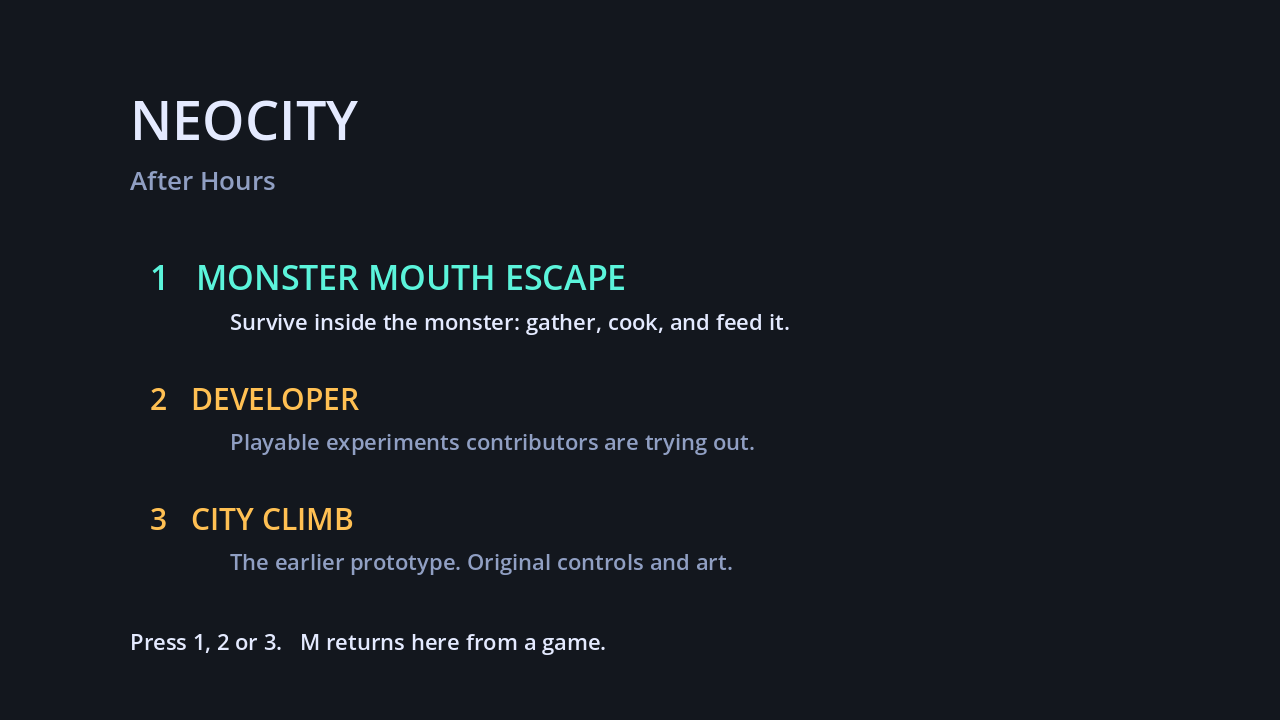
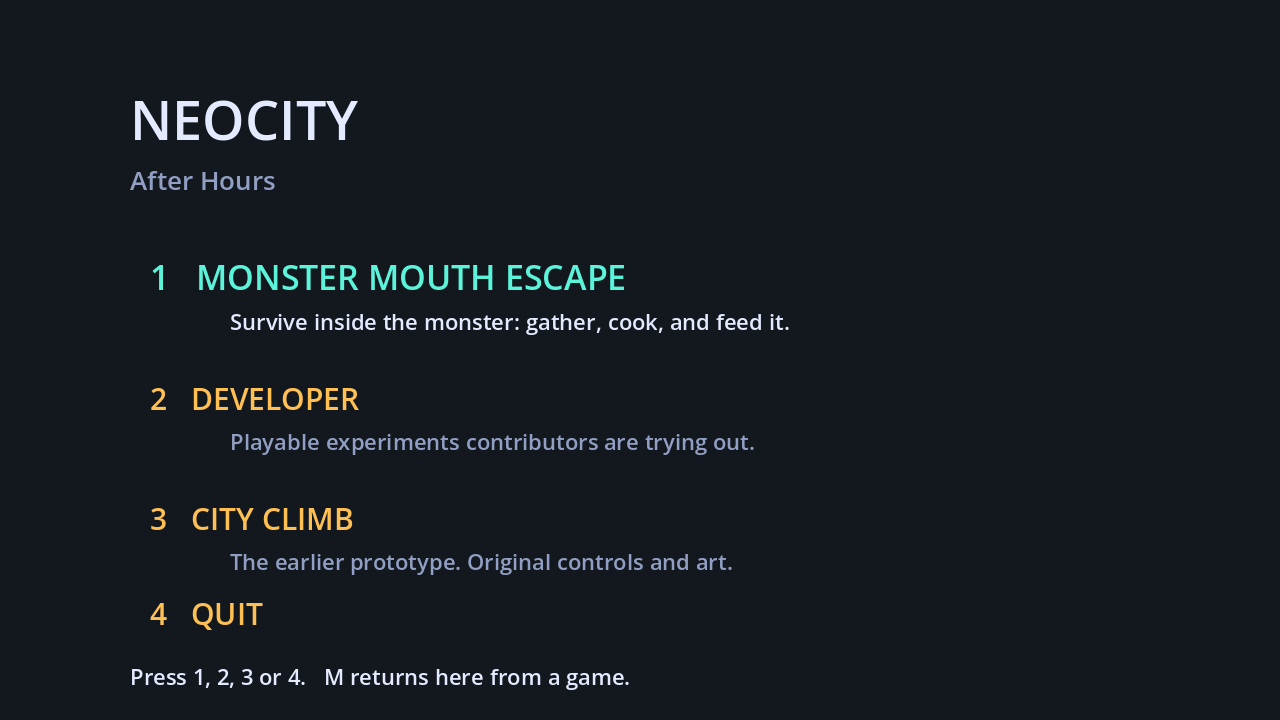
docs: match the README, design doc and frames to the game (#77)

Changed region(s): [[0.0938, 0.825, 0.5, 0.9778]]

diff --git a/docs/design/monster-mouth-escape.md b/docs/design/monster-mouth-escape.md
@@ -24,16 +24,16 @@ The baseline is the [body of parent #21](https://github.com/garamsh/neocity/issu
 ## Scope implemented on the foundation
 
 - [Foundation #23](https://github.com/garamsh/neocity/issues/23) provides state and commands for the two actors, the first day, the base and exploration phases, inventories, 3-slot health, shared remaining time, initial acid, and the run seed. Time expiry, damage return, re-entry, and inventory preservation can be executed.
-- [Exploration #24](https://github.com/garamsh/neocity/issues/24) provides, in pure C++, the two actors' identical detailed movement, collision, running, and stamina, fall returns, and material source access, supply, and shared stock validation. Escape is not implemented. The existing ascent game and pan experiment run unchanged.
+- [Exploration #24](https://github.com/garamsh/neocity/issues/24) provides, in pure C++, the two actors' identical detailed movement, collision, running, and stamina, fall returns, and material source access, supply, and shared stock validation. The existing ascent game and pan experiment run unchanged.
 - The decision that cooking has no time limit is reflected as a boundary where the workshop phase consumes no exploration time.
 - Voluntary return, health exhaustion, and time expiry all recover health to 3 slots on returning to base. Recovery does not reset inventories, the day count, remaining exploration time, or acid.
 - Switching to the workshop phase and stopping the exploration clock when both actors are at base is also a temporary boundary of the current foundation. The decision that cooking has no time limit does not settle the final time rule for every base stay.
 - The caller supplies exploration time. The short budgets, ingredient IDs, and seeds in tests are verification inputs, not product tuning values. The world reacts to acid given as a separate input.
 - [World #25](https://github.com/garamsh/neocity/issues/25) provides, as read-only value snapshots, stable IDs and areas for NPCs, terrain, buildings, passages, and material sources, traversal and supply availability after destruction, passage repair with the matching tool, and the appearance of unexposed buildings, routes, and material sources.
-- The caller supplies world damage and exposure thresholds. Test thresholds and layouts are not final balance or maps. Damage uses cumulative exploration time or an increase in historical peak acid, and an acid drop, a return, or health recovery does not reset the destruction, exposure, or repair history. A repaired passage does not break again at once on the same input and is damaged when added time or a peak acid increase after the repair reaches the threshold again.
+- The caller supplies world damage and exposure thresholds. Test thresholds and layouts are not final balance or maps. Damage uses the run's world time, the exploration time spent today plus a full day for every finished day whether anyone set out, or an increase in historical peak acid, and an acid drop, a return, or health recovery does not reset the destruction, exposure, or repair history. A repaired passage does not break again at once on the same input and is damaged when added time or a peak acid increase after the repair reaches the threshold again.
 - Exploration's four-direction integer grid, 100ms movement unit, one cell walking and two cells running, and one stamina slot spent or recovered per unit are a temporary runtime representation. The caller supplies maximum stamina, the entrance, interaction distance, and stock. Final physics, speed, and balance are not settled. Short frames also consume exploration time immediately and preserve only the movement remainder.
 - Vending machines, NPCs, shops, and bags use the same ingredient collection validation. The two actors cannot consume the same stock twice, and returning or setting out again restores neither stock nor the world. Tools are not disguised as ingredients.
-- Exploration consumes the two actors' time once and updates the world's cumulative time. External acid input applies to the world.
+- Exploration consumes the two actors' time once and passes the run's world time to the world. External acid input applies to the world.
 - [Workshop #26](https://github.com/garamsh/neocity/issues/26) provides, in pure C++, appraisal, cooking, and feeding, the magnifier and spatula 90%/40% rolls and damage and replacement state, the score difference between new foods and ingredients and repeated foods, acid rises from disliked food and from falling below the threshold, and the next-day transition with exploration budget restoration. Progression's acid is a real value that the host passes to `Exploration`. The day count and day result serve the connection of the escape check after day 30.
 - Recipes, scores, thresholds, and acid rises are temporary values the caller supplies. Requiring identified cooking ingredients, spending ingredients on a failed cook, food storage, allowing appraisal retries, no acid fall, and one feeding per day are temporary policies, not final rules. Ending the day without feeding is also a [temporary PM decision](https://github.com/garamsh/neocity/issues/26#issuecomment-6553559757); the caller sets the acid penalty, and the screen reports it. Whether appraisal failure is misinformation or a failure indication is not decided.
 - [Tool connection #32](https://github.com/garamsh/neocity/issues/32) lets both actors find tools under the same rules as ingredients and keeps them through returns and recovery. A carried replacement restores a damaged magnifier or spatula to the intact rate, and a passage is repaired only with the correct tool carried by the repairing actor. Health exhaustion now damages a base tool.
@@ -45,7 +45,7 @@ The baseline is the [body of parent #21](https://github.com/garamsh/neocity/issu
 - [Escape and endings #43](https://github.com/garamsh/neocity/issues/43) lets a game run from the main menu to an ending. After day 30 a daily check can end the run, an escaped run takes no further command, and the opening and ending have a playback contract for [#29](https://github.com/garamsh/neocity/issues/29) with a placeholder card while no art exists.
 - Temporary, not settled: the first check after day 30 finishes, the flat 20% chance, a hit being taken at once, the card text, and the card lengths. [Survival](../architecture/survival.md#temporary-escape-values) lists the values. The cause of the escape and the ending itself are undecided; vomiting stays an example.
 - [Acid loss #62](https://github.com/garamsh/neocity/issues/62) ends a run when acid reaches full, with a loss card under the same cinematic contract. On a day that both fills the acid and would roll an escape, the loss comes first. The score adds novelty, ingredient taste, and a fine dish's bonus; a satisfying meal stops the rise, and a meal below the threshold raises acid by its shortfall. Rising acid strands stock left in the sources it destroys.
-- Temporary, not settled: the formula and all its values, that half of a cook's success range is fine, a collection spending 12 seconds of the shared clock, the 11 recipes, which sources acid destroys, bags being carried away, the loss card's text and length, and the cook ranking and lacking-first collection that AI and the NEXT line share. [Survival](../architecture/survival.md#temporary-content) lists the values.
+- Temporary, not settled: the formula and all its values, that half of a cook's success range is fine, a collection spending 12 seconds of the shared clock, the 11 recipes, which sources acid destroys, washed-up bags landing by world time alone and acid carrying them off, the loss card's text and length, and the cook ranking and lacking-first collection that AI and the NEXT line share. [Survival](../architecture/survival.md#temporary-content) lists the values.
 - The public contract and per-feature file ownership plan are in the [survival architecture](../architecture/survival.md). The UI, keys, and numbers in the concept images are not settled requirements. The originals the parent issue cites are in the [concept archive](https://github.com/garamsh/neocity/tree/241124d5ba2dcef937c904623f1e5e3cb03fbcf5/docs/art/concept-art/monster-mouth-escape).
 
 ## Open questions

diff --git a/README.md b/README.md
@@ -10,7 +10,7 @@ On macOS, install the project-local tools once with `./scripts/setup-macos.sh`, 
 
 The game opens on the main menu: **1** starts Monster Mouth Escape, **2** opens the developer page, **3** plays the earlier ascent prototype below, and **4** quits. The developer page lists playable experiments by number; each is a plain prototype for trying an idea, not the main game. M goes back one level; during a survival run it asks first, because progress is not saved. Release held keys after a menu choice before giving the next input.
 
-In Monster Mouth Escape a monster has swallowed the city. Choose the chef or the appraiser and AI plays the other, or choose two local players. Gather ingredients and tools in the city before the day's time runs out, appraise them and cook at base, then feed the monster to start the next day. New and delicious food holds the acid back; anything else raises it, and rising acid and time wreck the city and take the stock left in it. Each actor carries home 2 ingredients a day. If the acid fills, the run is lost. From day 30, each finished day has a 20% chance that the party escapes. Either way the run then plays its ending and returns to the main menu, and the E key skips it. The opening, ending, and loss scenes of [#29](https://github.com/garamsh/neocity/issues/29) are not delivered, so a placeholder card stands in for each. The map, balance, keys, and art are temporary. The NEXT line at the bottom of the screen suggests a next step.
+In Monster Mouth Escape a monster has swallowed the city. Choose the chef or the appraiser and AI plays the other, or choose two local players. Gather ingredients and tools in the city before the day's time runs out, appraise them and cook at base, then feed the monster to start the next day. New and delicious food holds the acid back; anything else raises it, and rising acid and time wreck the city and take the stock left in it. Each collection spends 12 seconds of the day's 45, a clock both actors share, so a day holds at most four collections between them. If the acid fills, the run is lost. From day 30, each finished day has a 20% chance that the party escapes. Either way the run then plays its ending and returns to the main menu, and the E key skips it. The opening, ending, and loss scenes of [#29](https://github.com/garamsh/neocity/issues/29) are not delivered, so a placeholder card stands in for each. The map, balance, keys, and art are temporary. The NEXT line at the bottom of the screen suggests a next step.
 
 | Survival input | Player 1 | Player 2 |
 |---|---|---|
